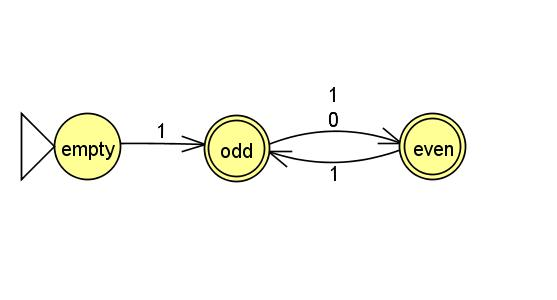
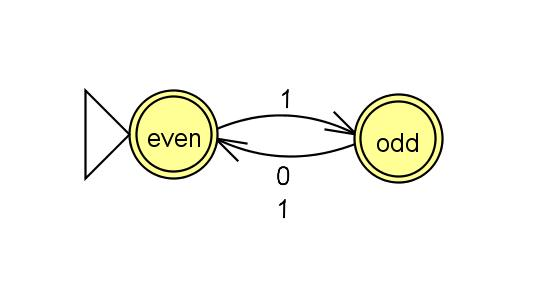
updated nfa 16

Changed region(s): [[0.0305, 0.3, 0.8546, 0.63], [0.4883, 0.66, 0.5189, 0.72], [0.5799, 0.3, 0.6104, 0.33]]

diff --git a/n16/n16.md b/n16/n16.md
@@ -3,3 +3,10 @@
 
 # multiple runs
 ![Image](n16run.jpg)
+
+# step by step of initial attempt
+![Image](n16v1step0.jpg)
+
+# computation tree of initial attempt
+![Image](n16tree.jpg)
+- original design assumed string length had to be at least 1, even though empty strings should be accepted by the set
